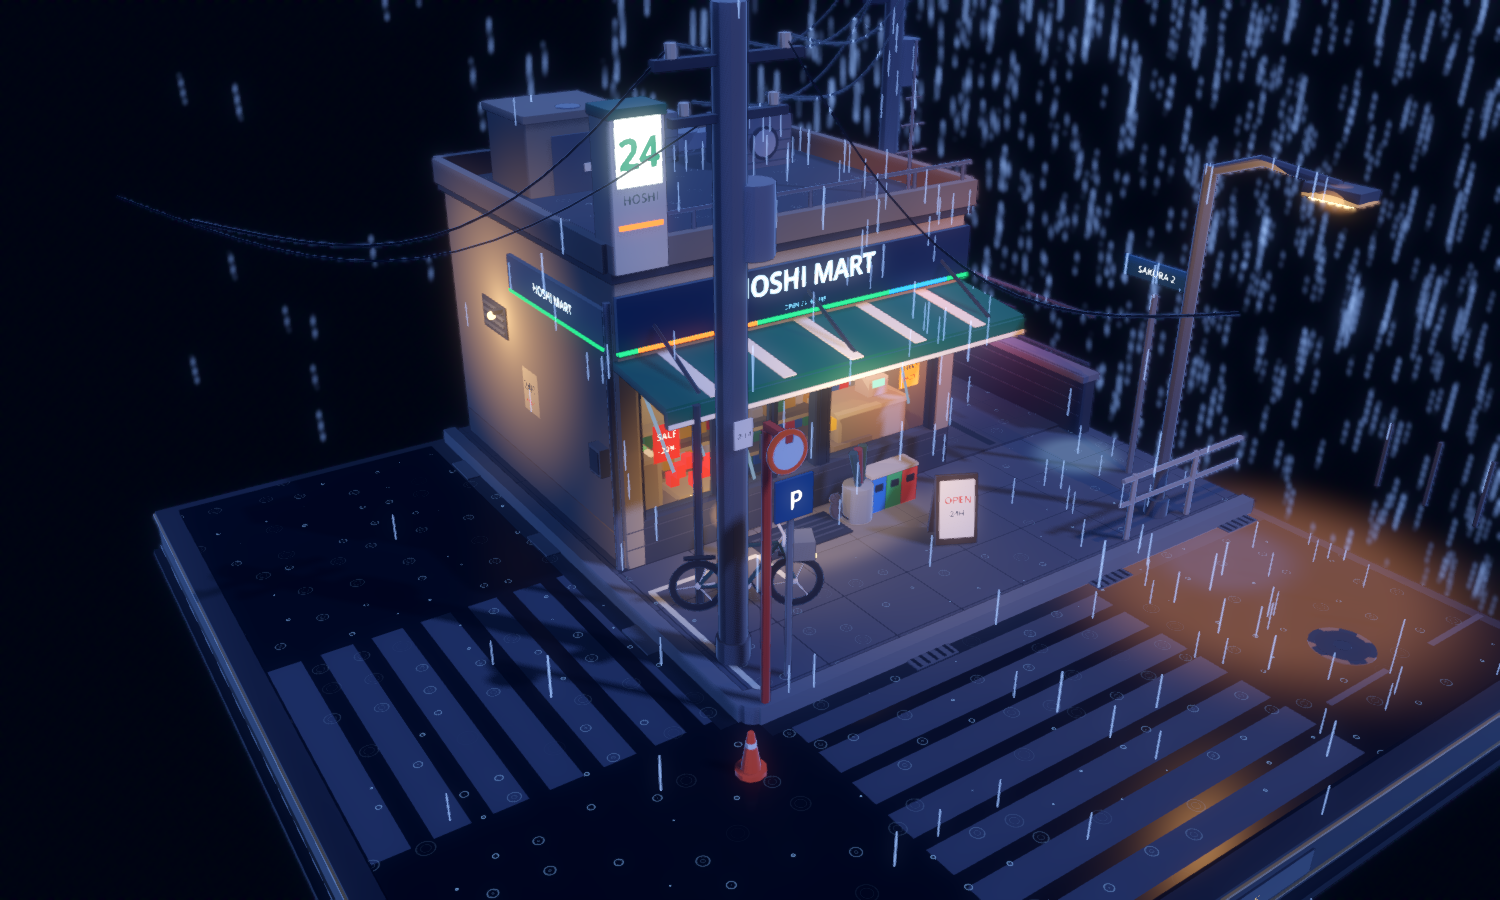
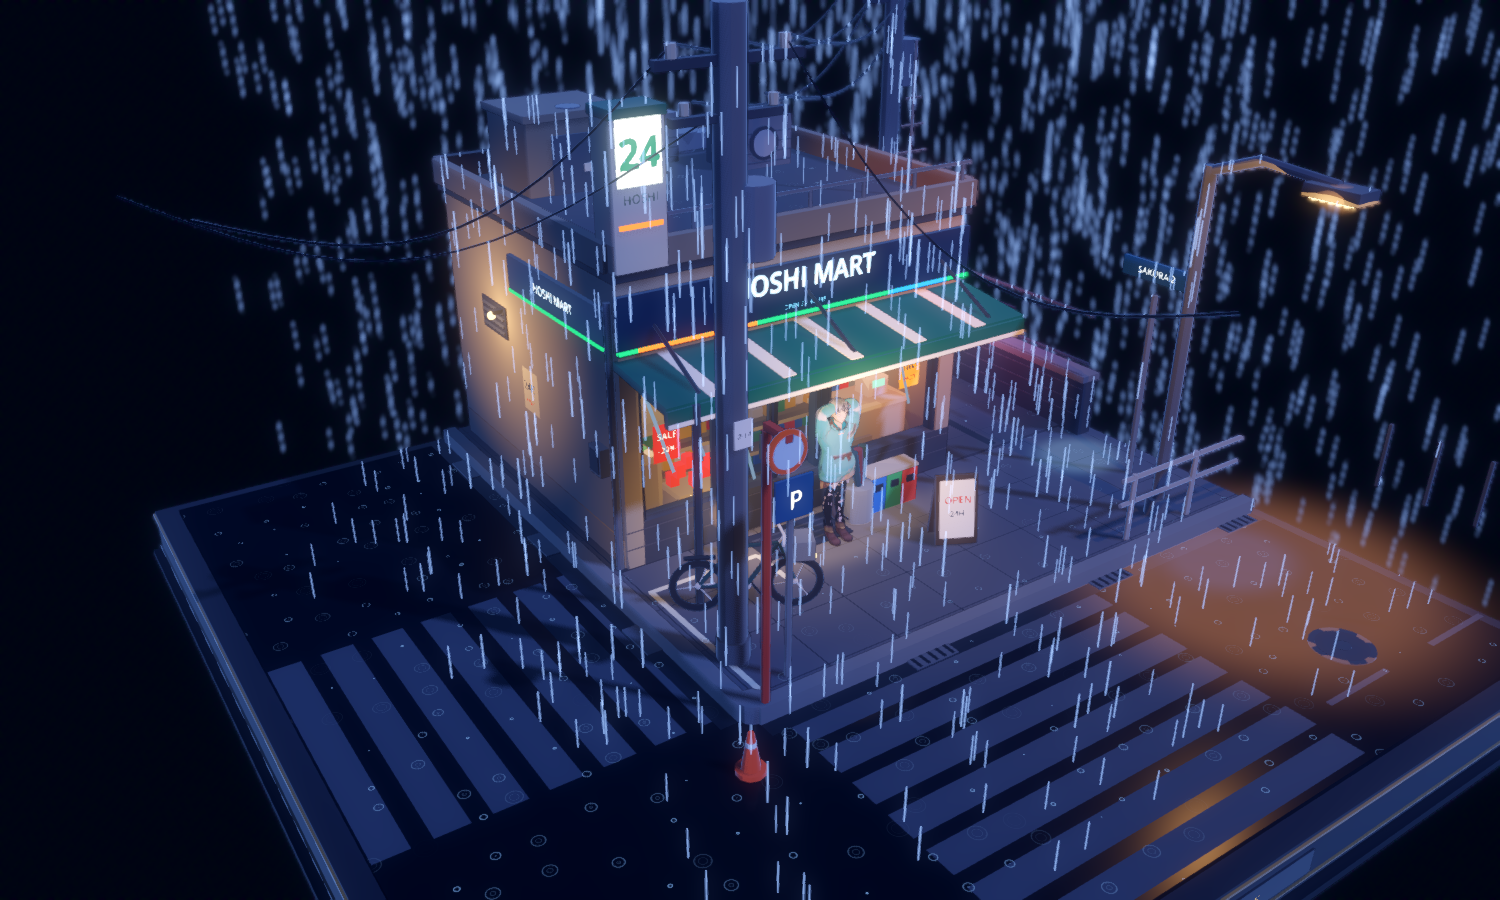
fix: 入口切到开场流程，并按当前代码重渲截图
- run/main_scene 改为 opening_flow.tscn：此前一直停在雨夜便利店，
  开场动画播完不会进草原，草原场景写了但跑不到
- .godot/ 导入缓存过期（停在 10-19 20:00），合并进来的 audio/*.wav 与
  assets/characters/gaia.glb 未导入，表现为主角不可见、雨声雷声全丢；
  已全量重导入（imported 16 → 78 个文件）
- README 补充启动流程、单场景运行命令，以及换机器后先重导入的提醒
- preview.png 与 7 张 shots 按当前代码重渲（Forward+，含主角）
- 新增 shots/grassland_wake.png、grassland_idle.png 作为草原场景验证图
- .gitignore 忽略 .workbuddy-ai/

diff --git a/README.md b/README.md
@@ -12,8 +12,15 @@
 ./Godot_v4.7.2-stable_linux.x86_64 --path .
 ```
 
+启动即进入 `scenes/opening_flow.tscn`：先播雨夜便利店的开场动画（约 40 秒，空格可跳过），
+黑场之后自动切到异世界草原 `scenes/grassland.tscn`，醒来后按 `F` 和狗说话。
+单独看某个场景可以用 `--path . scenes/grassland.tscn`（编辑器里选中该场景按 F6）。
+
 渲染器为 **Forward+**（湿地面 SSR 反射、SSAO、体积雾、景深需要 Forward+）。
 若机器只有 OpenGL，场景仍可正常显示，只是会失去屏幕空间反射与体积雾。
+
+> 换了机器或拉了大文件之后，先跑一次 `--headless --editor --quit` 重新导入资源。
+> `.godot/` 不进仓库，缺了这一步音频和 `gaia.glb` 会加载失败，场景看起来就像「少了东西」。
 
 ## 操作（无任何 UI）
 
@@ -27,8 +34,17 @@
 ## 场景构成
 
 ```
-scenes/main.tscn        场景入口（仅挂载 main.gd）
+scenes/opening_flow.tscn 启动入口（雨夜开场 → 草原，仅挂载 opening_flow.gd）
+scenes/main.tscn        雨夜便利店街角（仅挂载 main.gd）
+scenes/grassland.tscn   异世界草原（仅挂载 grassland.gd）
+scripts/opening_flow.gd 流程串联：监听开场动画结束 → 盖黑 → 换场景
+scripts/cutscene.gd     开场剧情动画（三幕：日常 / 异变 / 穿越）
 scripts/main.gd         环境、灯光、轨道相机、雨、截图调试
+scripts/grassland.gd    草原：天空、太阳、400m 地面、远景缓丘、醒来补间、对话接线
+scripts/player_controller.gd 第三人称控制器（相机支点 + 输入锁）
+scripts/dog.gd          程序化拼的狗 + 交互提示
+scripts/actor.gd        VRoid 主角模型加载、掰姿势、平色材质、描边
+scripts/dialogue/       对话解析与播放（dialogue_runner / parser / ui）
 scripts/kit.gd          建模工具库：体块、圆柱、管线、拉杆、文字、材质缓存
 scripts/street.gd       底座 / 人行道 / 马路 / 标线 / 电线杆 / 路灯 / 街角设施 / 湿地面光池
 scripts/store.gd        便利店：外壳 / 玻璃立面 / 自动门 / 雨棚 / 招牌 / 屋顶 / 店内
